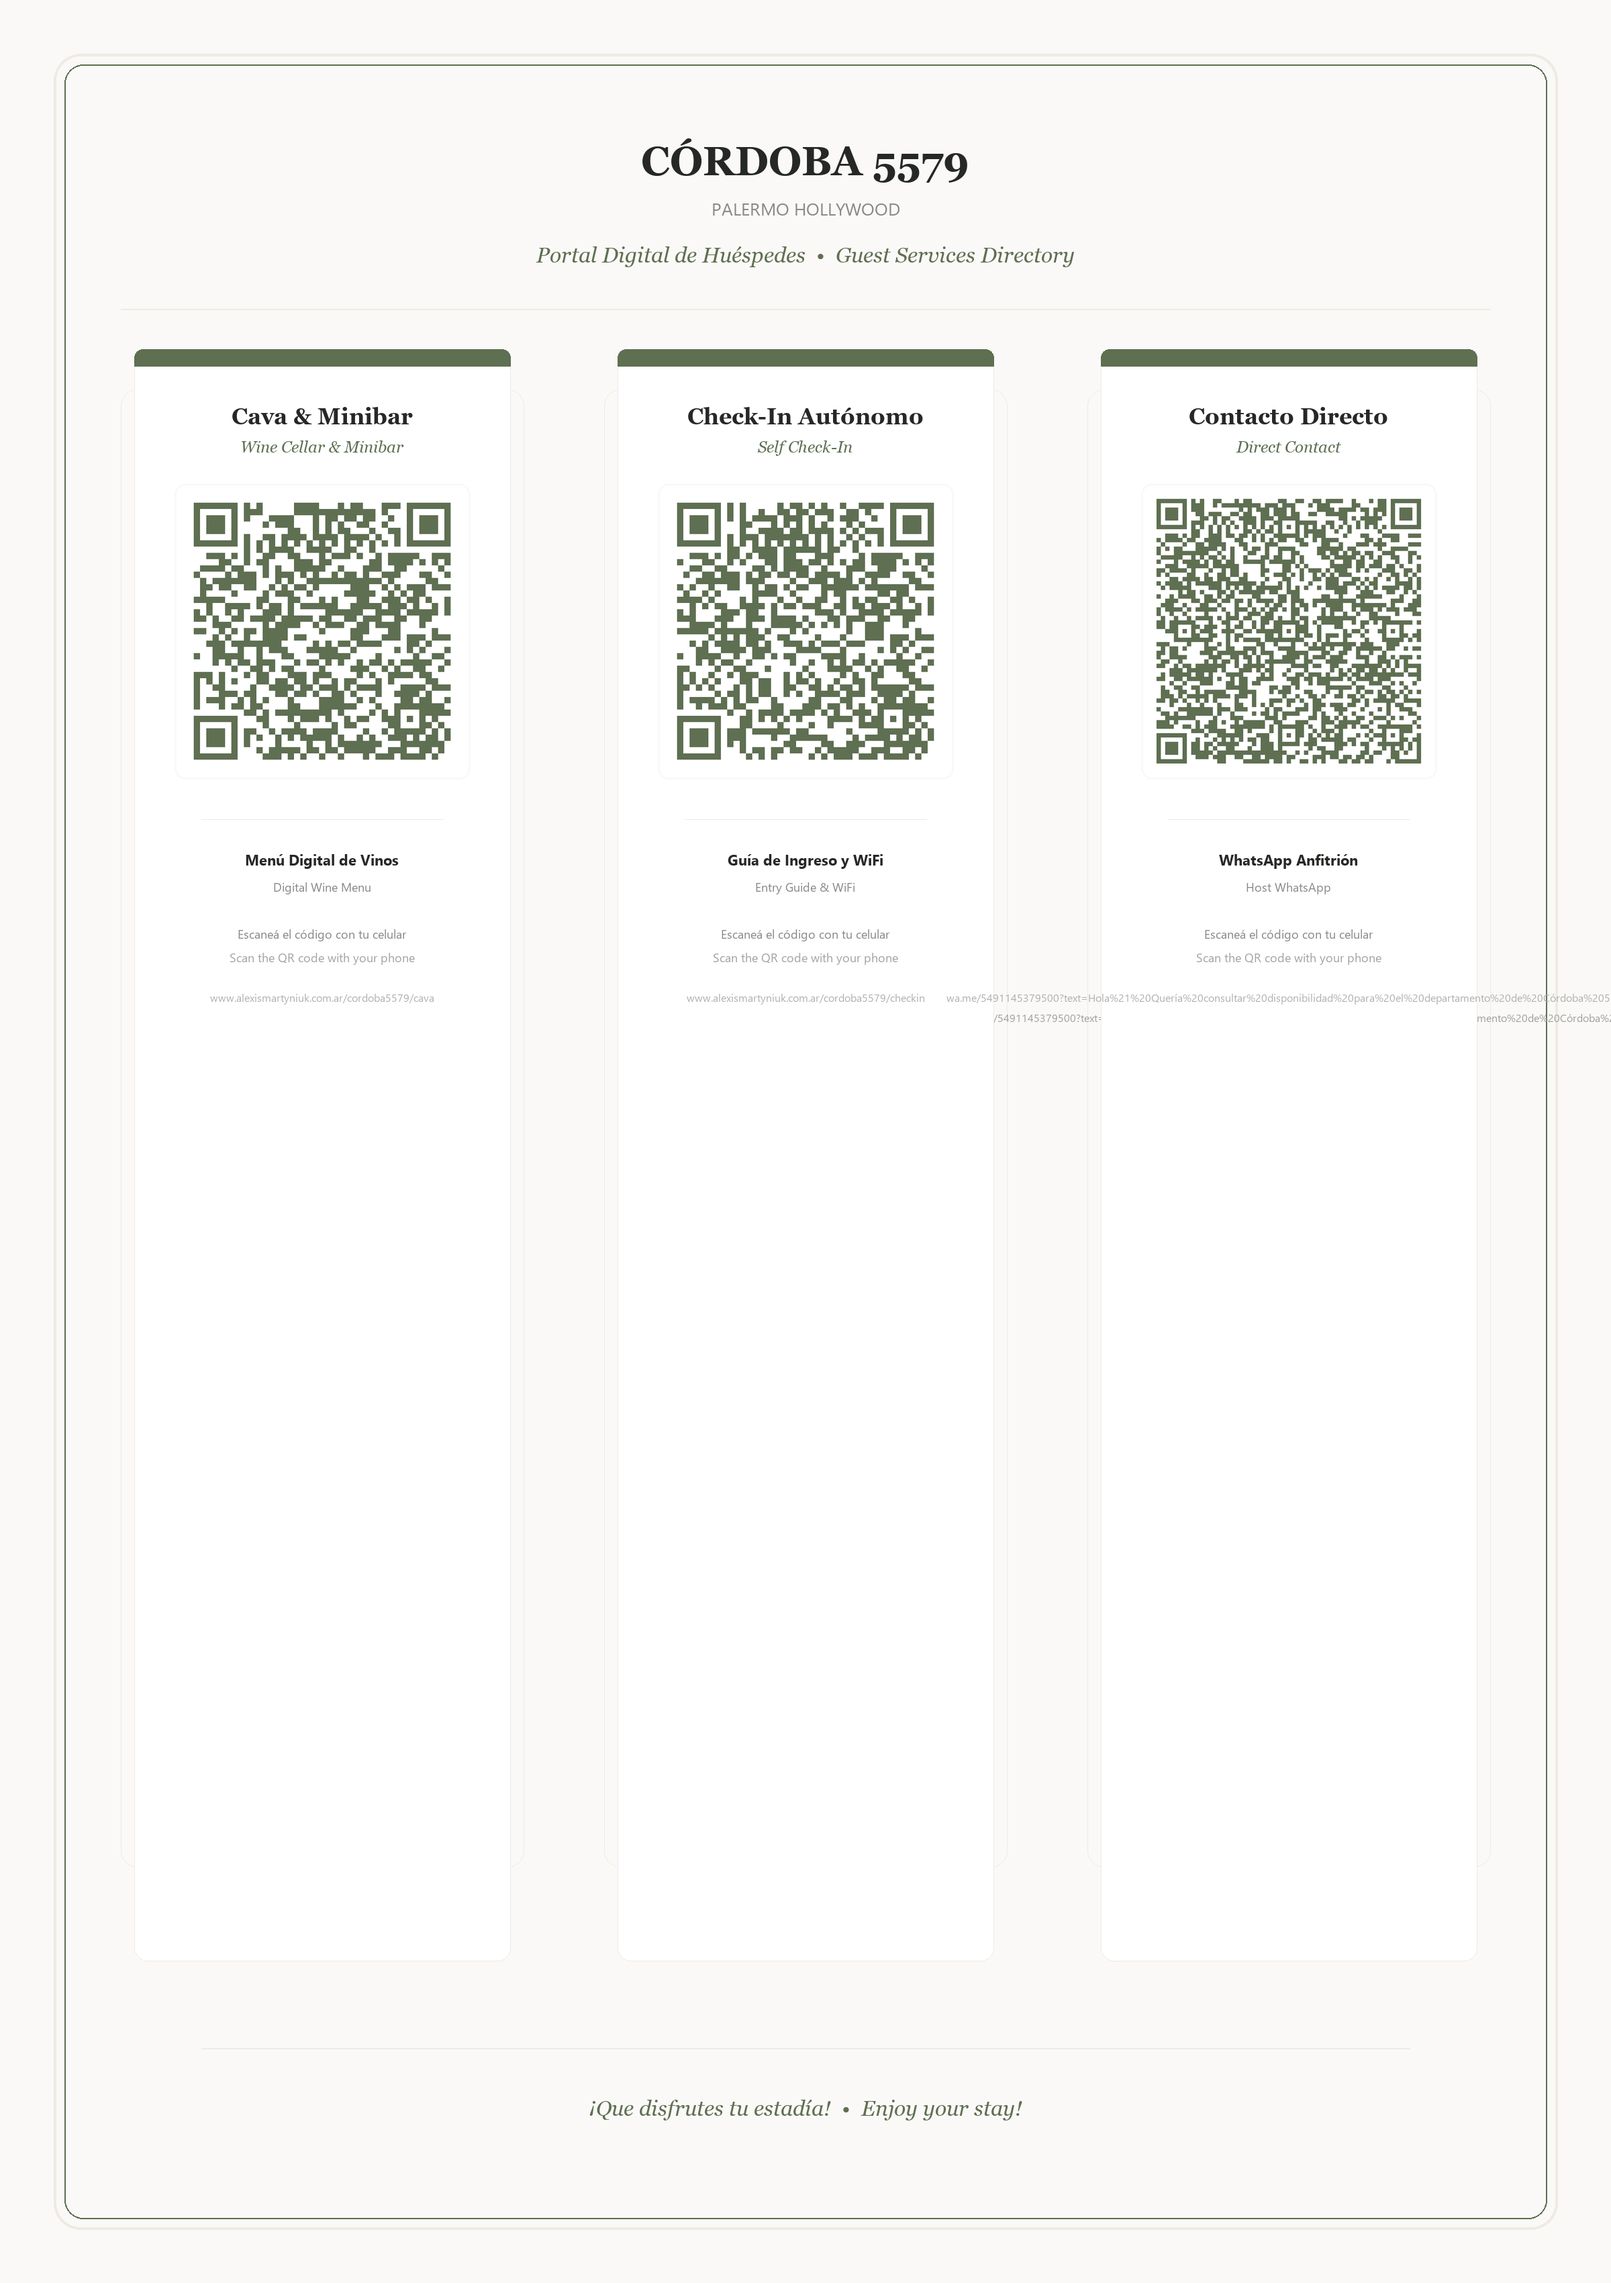
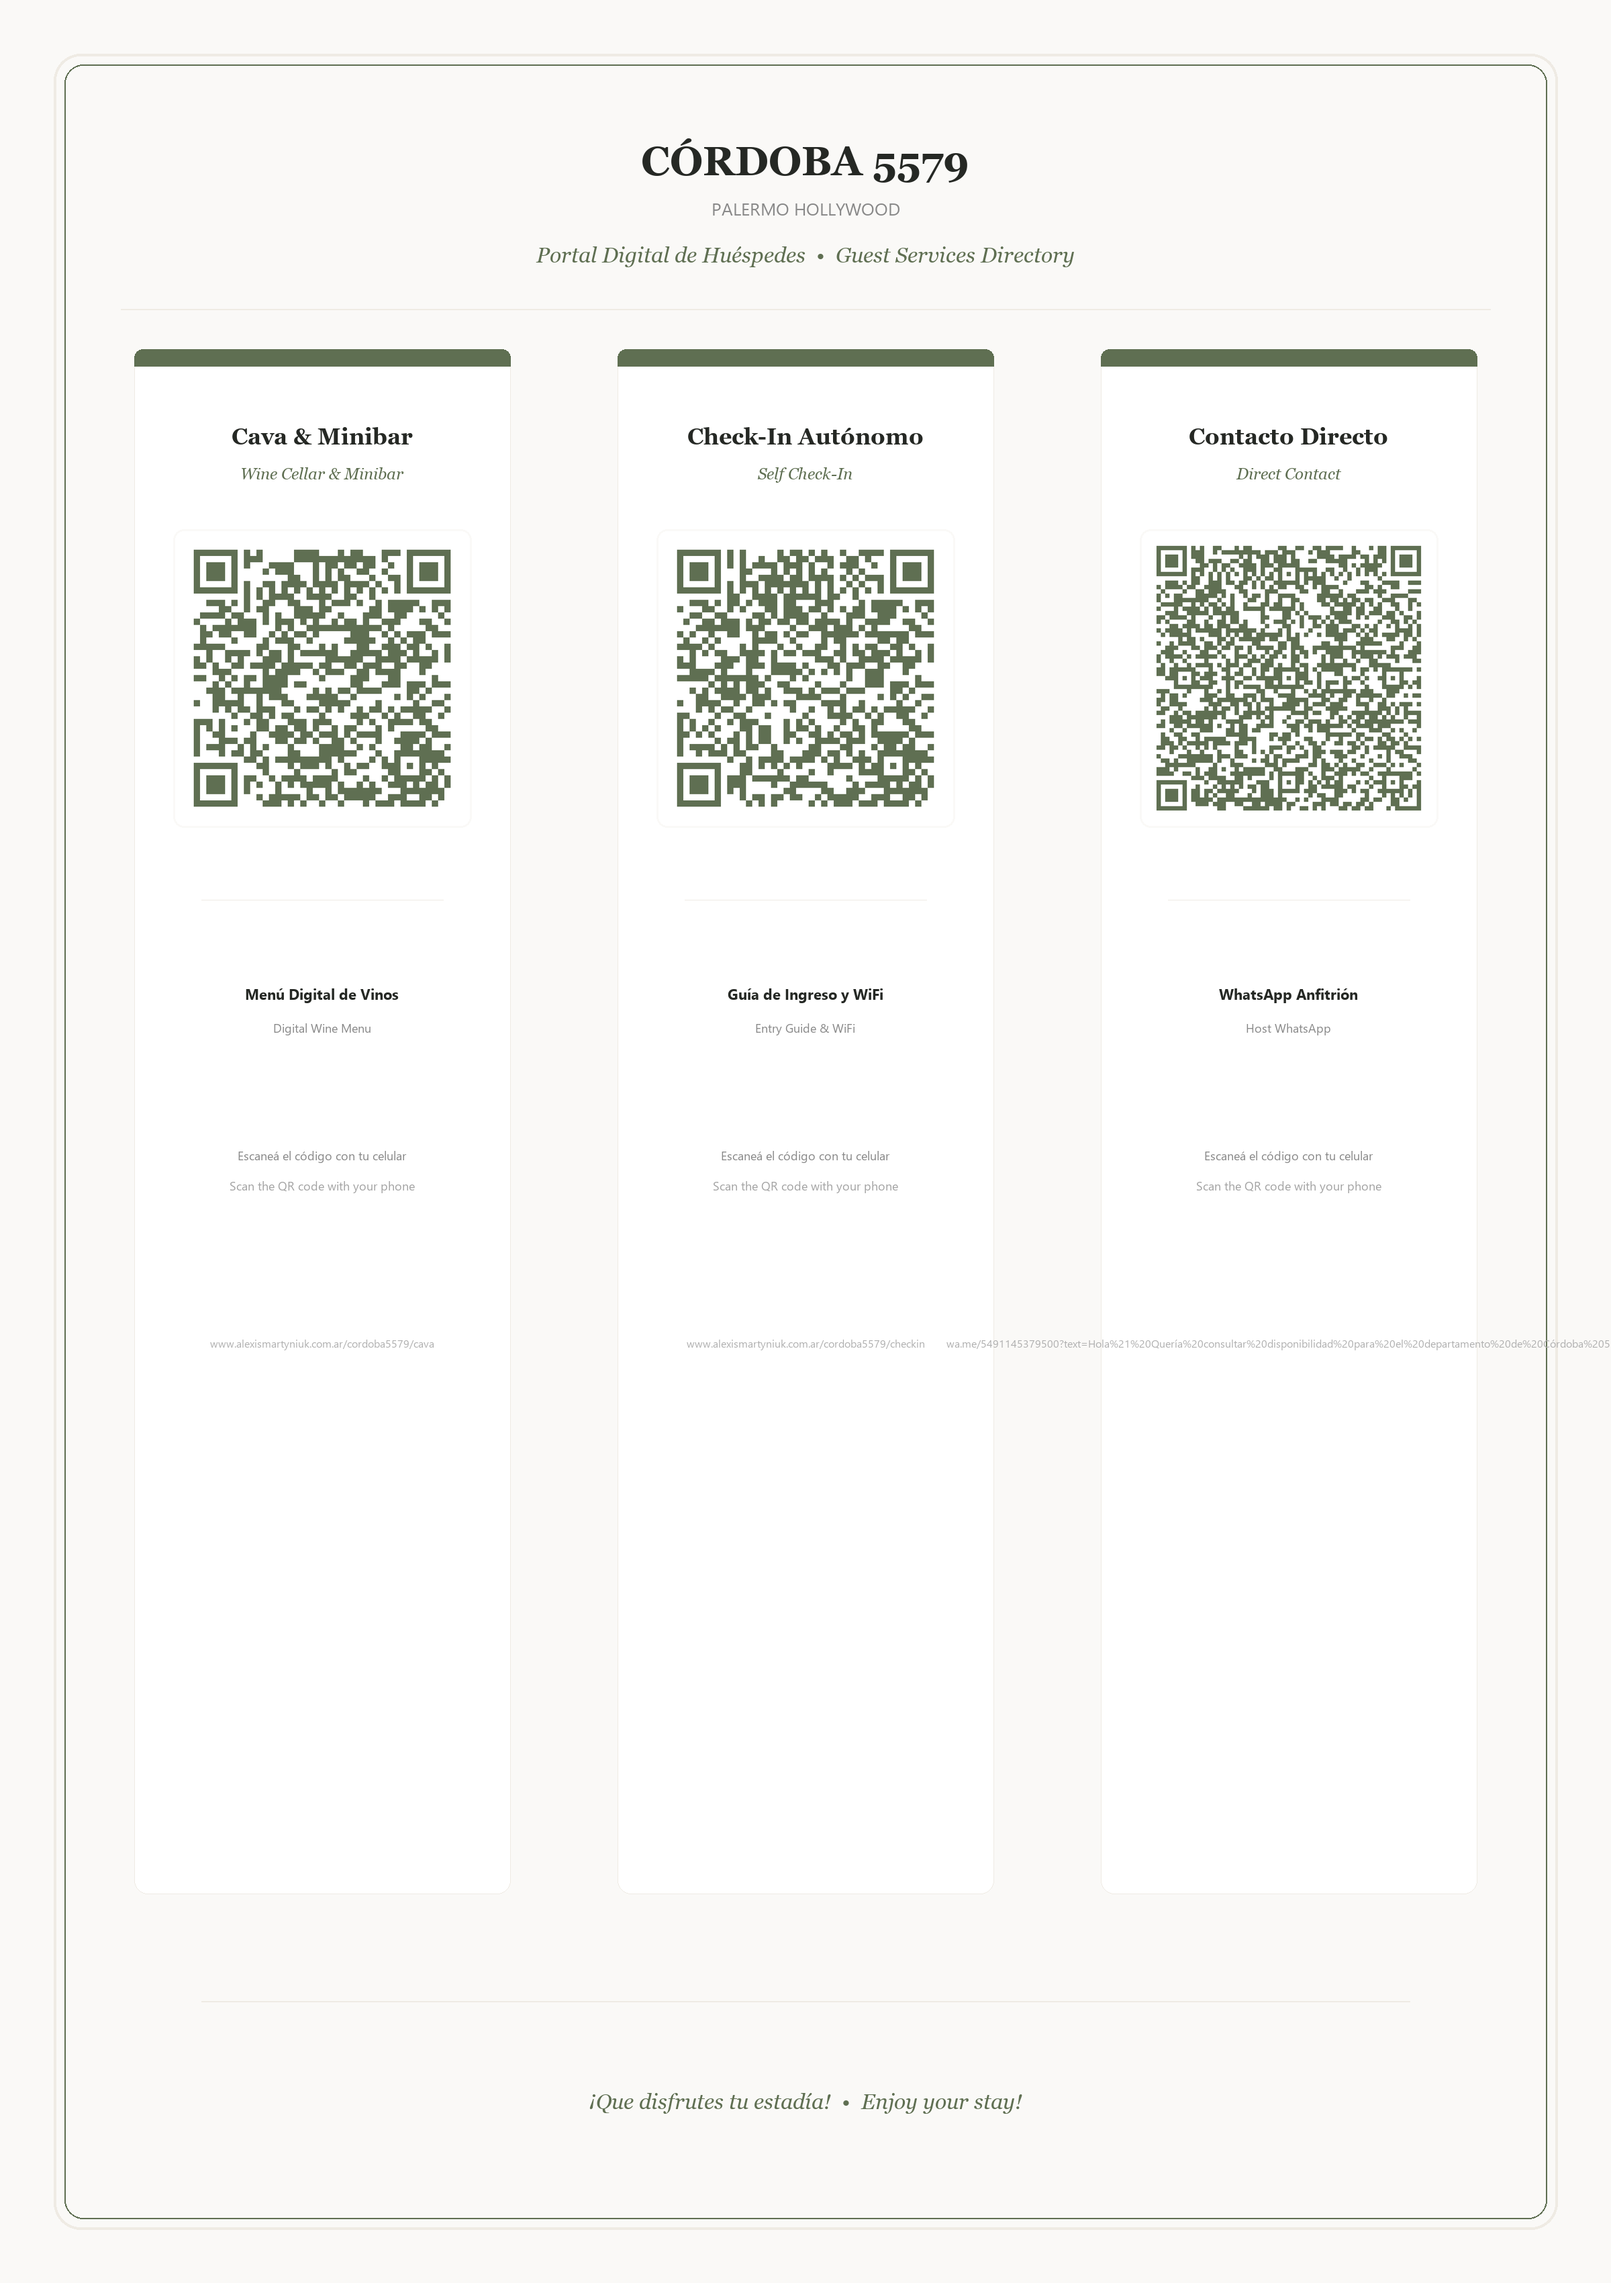
UI: Refactor unified sheet generator to remove overlapping loops and optimize vertical distribution

diff --git a/scripts/generate_qrs.py b/scripts/generate_qrs.py
@@ -232,71 +232,13 @@ def make_unified_sheet() -> Image.Image:
     # 3 Column Centers
     col_centers = [480, 1200, 1920]
     
-    # Render each QR card side-by-side
+    # Render columns side-by-side with balanced vertical distribution
     for idx, code in enumerate(CODES):
         cx = col_centers[idx]
         
-        # Draw a beautiful column card backing
-        col_w = 600
-        col_h = 2200
-        cy = 1680 # Y Center of column bounds
-        
+        # 1. Column card backing (Y=520 to Y=2820)
         draw.rounded_rectangle(
-            [cx - col_w//2, cy - col_h//2, cx + col_w//2, cy + col_h//2],
-            radius=24,
-            fill="#FAF9F7",
-            outline="#EFEBE4",
-            width=1
-        )
-
-        # Title Stacked
-        draw.text((cx, 680), code["label_es"], fill=code["color"], font=font_title_es, anchor="mm")
-        draw.text((cx, 725), code["label_en"], fill="#889B73", font=font_title_en, anchor="mm")
-
-        # QR code
-        qr_img = make_qr(code["url"], code["color"], "#FAF9F7")
-        qr_size = 400
-        qr_img = qr_img.resize((qr_size, qr_size), Image.LANCZOS)
-        qr_x = cx - qr_size // 2
-        qr_y = 780
-        
-        # QR backing
-        draw.rounded_rectangle(
-            [qr_x - 15, qr_y - 15, qr_x + qr_size + 15, qr_y + qr_size + 15],
-            radius=16,
-            fill="white",
-            outline="#EFEBE4",
-            width=1
-        )
-        card.paste(qr_img, (qr_x, qr_y), mask=qr_img)
-
-        # Subtitle details (stacked)
-        draw.text((cx, 1270), code["sublabel_es"], fill="#252824", font=font_label, anchor="mm")
-        draw.text((cx, 1310), code["sublabel_en"], fill="#888888", font=font_sublabel, anchor="mm")
-
-        # Action (stacked)
-        draw.text((cx, 1380), "Escaneá con tu celular", fill="#a3a3a3", font=font_sublabel, anchor="mm")
-        draw.text((cx, 1410), "Scan with your phone", fill="#c2c2c2", font=font_url, anchor="mm")
-
-        # Column Divider
-        draw.line([(cx - 150, 1470), (cx + 150, 1470)], fill="#EFEBE4", width=1)
-
-        # Dynamic URL
-        draw.text((cx, 1515), code["url"].replace("https://www.", ""), fill="#A0A0A0", font=font_url, anchor="mm")
-
-    # Translate column positions to fit in A4 Grid (Y offsets)
-    # The above loop Y coordinates were relative, but let's shift the elements down appropriately:
-    # Top of columns = 550, Bottom = 3000
-    
-    # We will clear column content drawing area and redraw with absolute positions to prevent overlap.
-    # Redraw everything on top of the card
-    # To keep it extremely precise, let's draw:
-    for idx, code in enumerate(CODES):
-        cx = col_centers[idx]
-        
-        # 1. Column card backing
-        draw.rounded_rectangle(
-            [cx - 280, 520, cx + 280, 2920],
+            [cx - 280, 520, cx + 280, 2820],
             radius=20,
             fill="white",
             outline="#EFEBE4",
@@ -312,20 +254,20 @@ def make_unified_sheet() -> Image.Image:
         # Cover bottom corners of top bar
         draw.rectangle([cx - 280, 535, cx + 280, 545], fill=code["color"])
 
-        # 3. Titles
-        draw.text((cx, 620), code["label_es"], fill="#252824", font=font_title_es, anchor="mm")
-        draw.text((cx, 665), code["label_en"], fill="#5F6F52", font=font_title_en, anchor="mm")
+        # 3. Titles (Spaced out vertically)
+        draw.text((cx, 650), code["label_es"], fill="#252824", font=font_title_es, anchor="mm")
+        draw.text((cx, 705), code["label_en"], fill="#5F6F52", font=font_title_en, anchor="mm")
 
         # 4. QR Code
         qr_img = make_qr(code["url"], code["color"], "white")
         qr_size = 420
         qr_img = qr_img.resize((qr_size, qr_size), Image.LANCZOS)
         qr_x = cx - qr_size // 2
-        qr_y = 730
+        qr_y = 800
         
         # QR Backing outline
         draw.rounded_rectangle(
-            [qr_x - 10, qr_y - 10, qr_x + qr_size + 10, qr_y + qr_size + 10],
+            [qr_x - 12, qr_y - 12, qr_x + qr_size + 12, qr_y + qr_size + 12],
             radius=16,
             fill="white",
             outline="#FAF9F7",
@@ -334,24 +276,27 @@ def make_unified_sheet() -> Image.Image:
         card.paste(qr_img, (qr_x, qr_y), mask=qr_img)
 
         # 5. Divider
-        draw.line([(cx - 180, 1220), (cx + 180, 1220)], fill="#EFEBE4", width=1)
+        draw.line([(cx - 180, 1340), (cx + 180, 1340)], fill="#EFEBE4", width=1)
 
-        # 6. Description / Sublabels
-        draw.text((cx, 1280), code["sublabel_es"], fill="#252824", font=font_label, anchor="mm")
-        draw.text((cx, 1320), code["sublabel_en"], fill="#888888", font=font_sublabel, anchor="mm")
+        # 6. Description / Sublabels (with generous vertical padding)
+        draw.text((cx, 1480), code["sublabel_es"], fill="#252824", font=font_label, anchor="mm")
+        draw.text((cx, 1530), code["sublabel_en"], fill="#888888", font=font_sublabel, anchor="mm")
 
         # 7. Action instruction
-        draw.text((cx, 1390), "Escaneá el código con tu celular", fill="#888888", font=font_sublabel, anchor="mm")
-        draw.text((cx, 1425), "Scan the QR code with your phone", fill="#a3a3a3", font=font_sublabel, anchor="mm")
+        draw.text((cx, 1720), "Escaneá el código con tu celular", fill="#888888", font=font_sublabel, anchor="mm")
+        draw.text((cx, 1765), "Scan the QR code with your phone", fill="#a3a3a3", font=font_sublabel, anchor="mm")
 
         # 8. Web URL
-        draw.text((cx, 1485), code["url"].replace("https://", ""), fill="#B0B0B0", font=font_url, anchor="mm")
+        draw.text((cx, 2000), code["url"].replace("https://", ""), fill="#B0B0B0", font=font_url, anchor="mm")
 
     # Bottom Footer section
-    draw.line([(300, 3050), (W - 300, 3050)], fill="#EFEBE4", width=2)
-    draw.text((W // 2, 3140), "¡Que disfrutes tu estadía!  •  Enjoy your stay!", fill="#5F6F52", font=font_footer, anchor="mm")
+    draw.line([(300, 2980), (W - 300, 2980)], fill="#EFEBE4", width=2)
+    draw.text((W // 2, 3130), "¡Que disfrutes tu estadía!  •  Enjoy your stay!", fill="#5F6F52", font=font_footer, anchor="mm")
 
     return card.convert("RGB")
+
+
+
 
 
 def main():
